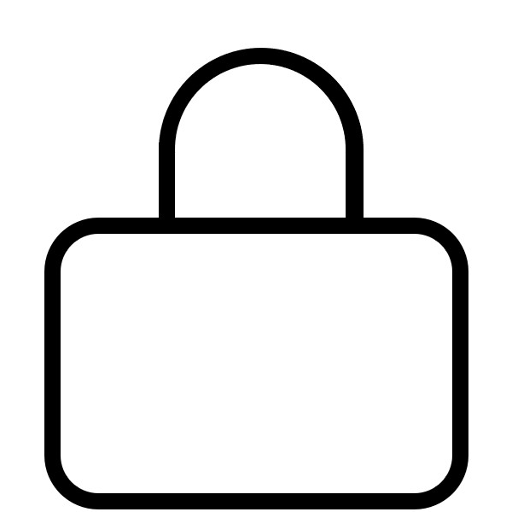
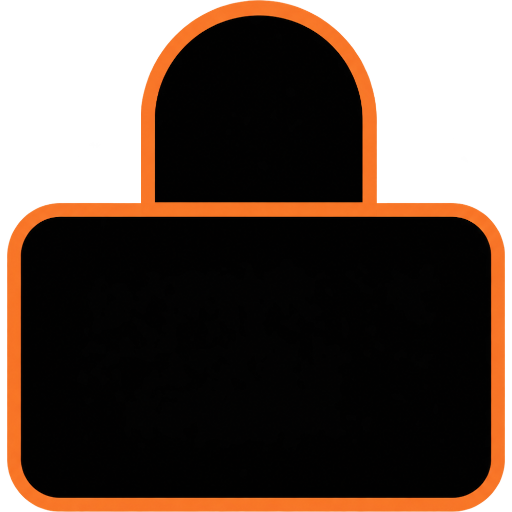
Redessiner la page de connexion (login.aspx)
Meme style que contact.aspx : carte blanche, section-label, labels
flottants, bouton degrade, largeur reduite a 24rem. Conserve les
icones login.png/lock.png a gauche des champs sans casser l'animation
des labels flottants. Deplace Load_Languages() dans le bloc <% %> du
placeholder head et reutilise User_IP.Get_UserIP() au lieu de
dupliquer la logique IP.

diff --git a/netcreative.ca/Admin/login.aspx.cs b/netcreative.ca/Admin/login.aspx.cs
@@ -1,7 +1,6 @@
 using System;
 using System.Configuration;
 using System.Data.SqlClient;
-using System.Web;
 using netcreative.ca.Resources;
 
 namespace netcreative.ca
@@ -9,36 +8,21 @@ namespace netcreative.ca
     public partial class login : System.Web.UI.Page
     {
         private string connectionString = string.Empty;
-        private string message_error = string.Empty;
-        private string message_greeting = string.Empty;
-        int counter = 0;
-        bool loginResult = false;
+        private int counter = 0;
+        private bool loginResult = false;
 
         protected void Page_Load(object sender, EventArgs e)
         {
-            if (string.IsNullOrEmpty((string)Session["language"]))
-            {
-                Session["language"] = ConfigurationManager.AppSettings["app_language"].ToString();
-            }
-
             Global.SetCulture(Session["language"].ToString());
 
             connectionString = ConfigurationManager.ConnectionStrings["connectionString"].ConnectionString;
-            Load_Languages();
+            Button_Connection.Text = Global.Login_ConnectionButton;
             counter = Convert.ToInt32(ViewState["counter"]);
         }
 
         protected void Button_Connection_Click(object sender, EventArgs e)
         {
             VerifyIfAdminExist();
-        }
-
-        private void Load_Languages()
-        {
-            Page.Title = Global.Login_Title;
-            Button_Connection.Text = Global.Login_ConnectionButton;
-            message_error = Global.Login_ErrorMessage;
-            message_greeting = Global.Login_Greeting;
         }
 
         private void VerifyIfAdminExist()
@@ -59,16 +43,15 @@ namespace netcreative.ca
                         if (dr.HasRows && dr.Read() && PasswordHasher.Verify(TextBox_Password.Text, dr["PASSWORD"].ToString()))
                         {
                             Session["user"] = dr["USER_NAME"];
-                            Session["name"] = message_greeting + " " + dr["FIRST_NAME"];
                             Session["role"] = "admin";
 
                             loginResult = true;
                             Write_Login();
-                            Response.Redirect("default.aspx");
+                            Response.Redirect(ResolveUrl("~/Admin/admin.aspx"));
                         }
                         else
                         {
-                            Response.Write("<script>alert('" + message_error + "');</script>");
+                            Response.Write("<script>showToast('" + Global.Login_ErrorMessage + "', 'error');</script>");
                             counter += 1;
                             ViewState["counter"] = counter;
                             loginResult = false;
@@ -76,7 +59,7 @@ namespace netcreative.ca
 
                             if (counter == 3)
                             {
-                                Response.Redirect("default.aspx");
+                                Response.Redirect(ResolveUrl("~/default.aspx"));
                             }
                         }
 
@@ -86,7 +69,7 @@ namespace netcreative.ca
             }
             catch (Exception ex)
             {
-                Response.Write("<script>alert('" + ex.Message + "');</script>");
+                Response.Write("<script>showToast('" + ex.Message + "', 'error');</script>");
             }
         }
 
@@ -97,38 +80,16 @@ namespace netcreative.ca
                 using (SqlConnection connection = new SqlConnection(connectionString))
                 {
                     string sqlCommand =
-                        "INSERT INTO LOGIN (DATE, TIME, IP_ADDRESS, USER_NAME, PASSWORD, ACTION) VALUES (" +
-                        "@DATE, @TIME, @IP_ADDRESS, @USER_NAME, @PASSWORD, @ACTION)";
-
-                    string user_ip = HttpContext.Current.Request.ServerVariables["HTTP_X_FORWARDED_FOR"];
-
-                    if (user_ip == null)
-                    {
-                        user_ip = HttpContext.Current.Request.ServerVariables["REMOTE_ADDR"];
-                    }
-                    else
-                    {
-                        user_ip = user_ip.Split(',')[0];
-                    }
+                        "INSERT INTO LOGIN (DATE, TIME, IP_ADDRESS, USER_NAME, ACTION) VALUES (" +
+                        "@DATE, @TIME, @IP_ADDRESS, @USER_NAME, @ACTION)";
 
                     using (SqlCommand cmd = new SqlCommand(sqlCommand, connection))
                     {
-                        cmd.Parameters.AddWithValue("@DATE", DateTime.Now.ToString("yyyy/MM/dd"));
-                        cmd.Parameters.AddWithValue("@TIME", DateTime.Now.ToLongTimeString());
-                        cmd.Parameters.AddWithValue("@IP_ADDRESS", user_ip);
+                        cmd.Parameters.AddWithValue("@DATE", DateTime.Now.Date);
+                        cmd.Parameters.AddWithValue("@TIME", DateTime.Now.TimeOfDay);
+                        cmd.Parameters.AddWithValue("@IP_ADDRESS", User_IP.Get_UserIP());
                         cmd.Parameters.AddWithValue("@USER_NAME", TextBox_User.Text);
-
-                        cmd.Parameters.AddWithValue("@PASSWORD", string.Empty);
-
-                        if (loginResult)
-                        {
-                            ConfigurationManager.AppSettings["app_user"] = TextBox_User.Text;
-                            cmd.Parameters.AddWithValue("@ACTION", "LOGIN");
-                        }
-                        else
-                        {
-                            cmd.Parameters.AddWithValue("@ACTION", "FAIL");
-                        }
+                        cmd.Parameters.AddWithValue("@ACTION", loginResult ? "LOGIN" : "FAIL");
 
                         connection.Open();
                         cmd.ExecuteNonQuery();

diff --git a/netcreative.ca/Admin/login.aspx.designer.cs b/netcreative.ca/Admin/login.aspx.designer.cs
@@ -1,10 +1,10 @@
 //------------------------------------------------------------------------------
-// <auto-generated>
-//     This code was generated by a tool.
+// <généré automatiquement>
+//     Ce code a été généré par un outil.
 //
-//     Changes to this file may cause incorrect behavior and will be lost if
-//     the code is regenerated. 
-// </auto-generated>
+//     Les changements apportés à ce fichier peuvent provoquer un comportement incorrect et seront perdues si
+//     le code est régénéré.
+// </généré automatiquement>
 //------------------------------------------------------------------------------
 
 namespace netcreative.ca
@@ -15,30 +15,44 @@ namespace netcreative.ca
     {
 
         /// <summary>
-        /// TextBox_User control.
+        /// Contrôle TextBox_User.
         /// </summary>
         /// <remarks>
-        /// Auto-generated field.
-        /// To modify move field declaration from designer file to code-behind file.
+        /// Champ généré automatiquement.
+        /// Pour modifier, déplacez la déclaration de champ du fichier de concepteur dans le fichier code-behind.
         /// </remarks>
         protected global::System.Web.UI.WebControls.TextBox TextBox_User;
 
         /// <summary>
-        /// TextBox_Password control.
+        /// Contrôle TextBox_Password.
         /// </summary>
         /// <remarks>
-        /// Auto-generated field.
-        /// To modify move field declaration from designer file to code-behind file.
+        /// Champ généré automatiquement.
+        /// Pour modifier, déplacez la déclaration de champ du fichier de concepteur dans le fichier code-behind.
         /// </remarks>
         protected global::System.Web.UI.WebControls.TextBox TextBox_Password;
 
         /// <summary>
-        /// Button_Connection control.
+        /// Contrôle Button_Connection.
         /// </summary>
         /// <remarks>
-        /// Auto-generated field.
-        /// To modify move field declaration from designer file to code-behind file.
+        /// Champ généré automatiquement.
+        /// Pour modifier, déplacez la déclaration de champ du fichier de concepteur dans le fichier code-behind.
         /// </remarks>
         protected global::System.Web.UI.WebControls.Button Button_Connection;
+
+        /// <summary>
+        /// Propriété Master.
+        /// </summary>
+        /// <remarks>
+        /// Propriété générée automatiquement
+        /// </remarks>
+        public new netcreative.ca.MasterPages.Site Master
+        {
+            get
+            {
+                return ((netcreative.ca.MasterPages.Site)(base.Master));
+            }
+        }
     }
 }
